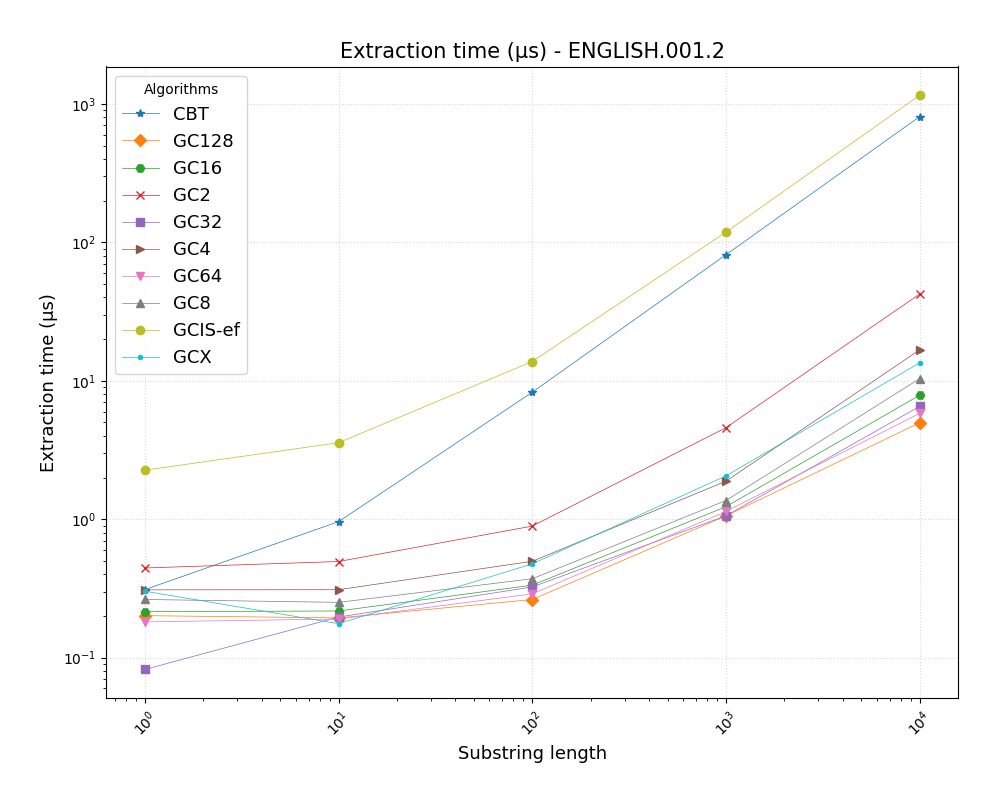
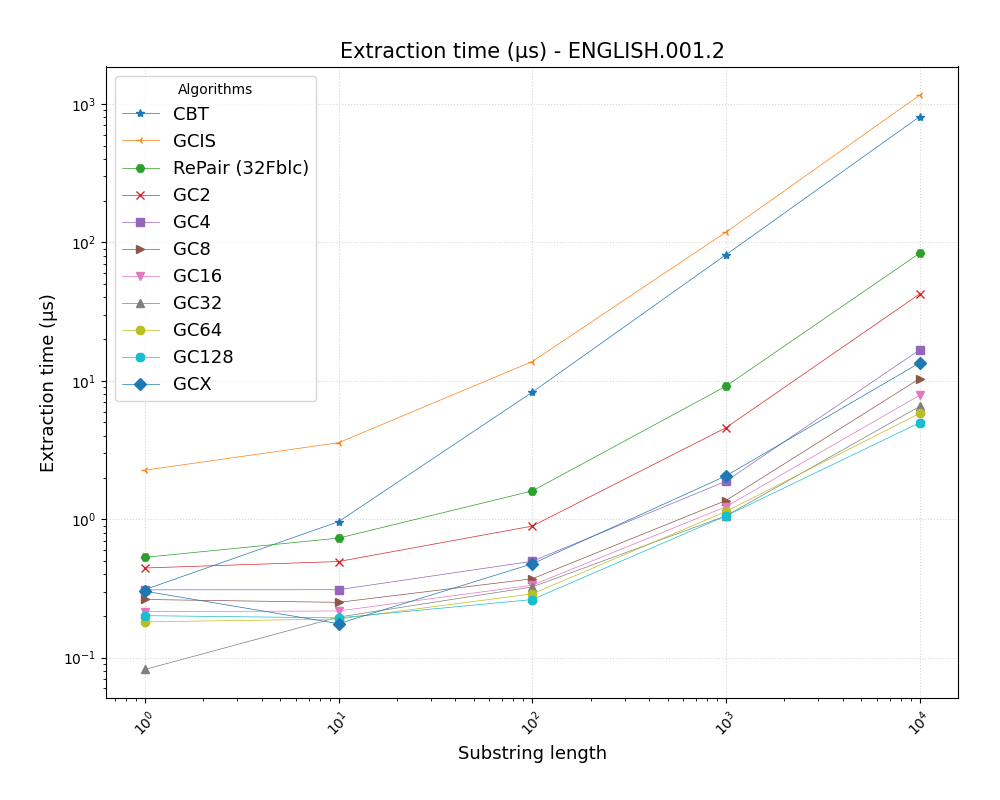
ordena a legenda do gráfico de extração

diff --git a/scripts/graphs/report.py b/scripts/graphs/report.py
@@ -84,9 +84,10 @@ def prepare_dataset(df: pd.DataFrame, operation: str):
     df = remove_and_log_incomplete_rows(df)
 
     df['algorithm'] = df['algorithm'].replace({
-        'REPAIR-PlainSlp_32Fblc': 'RePair (32Fblc)',
-        'REPAIR-PlainSlp_FblcFblc': 'RePair (FblcFblc)',
-        'GCX-y16': 'GCX'
+        'PlainSlp_32Fblc': 'RePair (32Fblc)',
+        'PlainSlp_FblcFblc': 'RePair (FblcFblc)',
+        'GCX-y16': 'GCX',
+        'GCIS-ef': 'GCIS'
     })
     
     df.loc[:, 'file'] = df['file'].str.replace('pseudo-real-', '', regex=False) \
@@ -96,12 +97,12 @@ def prepare_dataset(df: pd.DataFrame, operation: str):
     keep = {
         'GC2', 'GC4', 'GC8', 'GC16', 'GC32', 'GC64', 'GC128',
         'GCX',
-        'bzip2', '7zip', 'GCIS-ef',
-        'RePair (32Fblc)', 'RePair (FblcFblc)',
+        'bzip2', '7zip', 'GCIS',
+        'RePair (32Fblc)', #'RePair (FblcFblc)',
         'CBT'
     }
     df = df[df['algorithm'].isin(keep)].copy()
-
+    
     if operation == 'compress':
         plain_size = df['plain_size'].iloc[0]
         df['compressed_size_ratio'] = df['compressed_size'].apply(lambda x: ut.compute_ratio_percentage(x, plain_size))

diff --git a/scripts/graphs/plotting.py b/scripts/graphs/plotting.py
@@ -1,7 +1,7 @@
 import matplotlib.pyplot as plt
 import numpy as np
 import pandas as pd
-from constants import COLOR_MAP, MARKERS, COLOR_MAP
+from constants import COLOR_MAP, MARKERS, COLOR_MAP, LEGEND_ORDER
 from matplotlib.ticker import ScalarFormatter
 import matplotlib.ticker as ticker
 import matplotlib.cm as cm
@@ -88,8 +88,14 @@ def generate_chart_line(results, information, output_dir, max_value, min_value):
     plt.figure(figsize=(10,8))
     n_markers = len(MARKERS)
     j=0
-    for algorithm, group in results.groupby('algorithm'):
-        plt.plot(group['substring_size'], group['time'], marker=MARKERS[j], linewidth=0.5, label=algorithm)
+    for algorithm in LEGEND_ORDER:
+        group = results[results['algorithm'] == algorithm]
+        if group.empty:
+            continue
+        plt.plot(
+            group['substring_size'], group['time'],
+            marker=MARKERS[j], linewidth=0.5, label=algorithm
+        )
         j= j+1
         if j > n_markers:
             j=0

diff --git a/scripts/graphs/constants.py b/scripts/graphs/constants.py
@@ -1,5 +1,9 @@
+LEGEND_ORDER = [
+    "CBT", "GCIS", "RePair (32Fblc)", 
+    "GC2", "GC4", "GC8", "GC16", "GC32", "GC64", "GC128", "GCX"
+]
 LINE_STYLE = ["--", "-.", "-","--"]
-MARKERS = ["*","D", "H", "x","s", ">", "v", "^", "o", ".", ",", "<", "1", "2", "3", "4", "8", "p", "P", "h", "+", "X", "d", "|", "_"]
+MARKERS = ["*","3", "H", "x","s", ">", "v", "^", "o", "8", "D", "<", "1", "2", "|", "4", "+", "p", "P", "h", ".", "X", "d", ",", "_"]
 
 COLOR_MAP= {
     'compression_time': {
